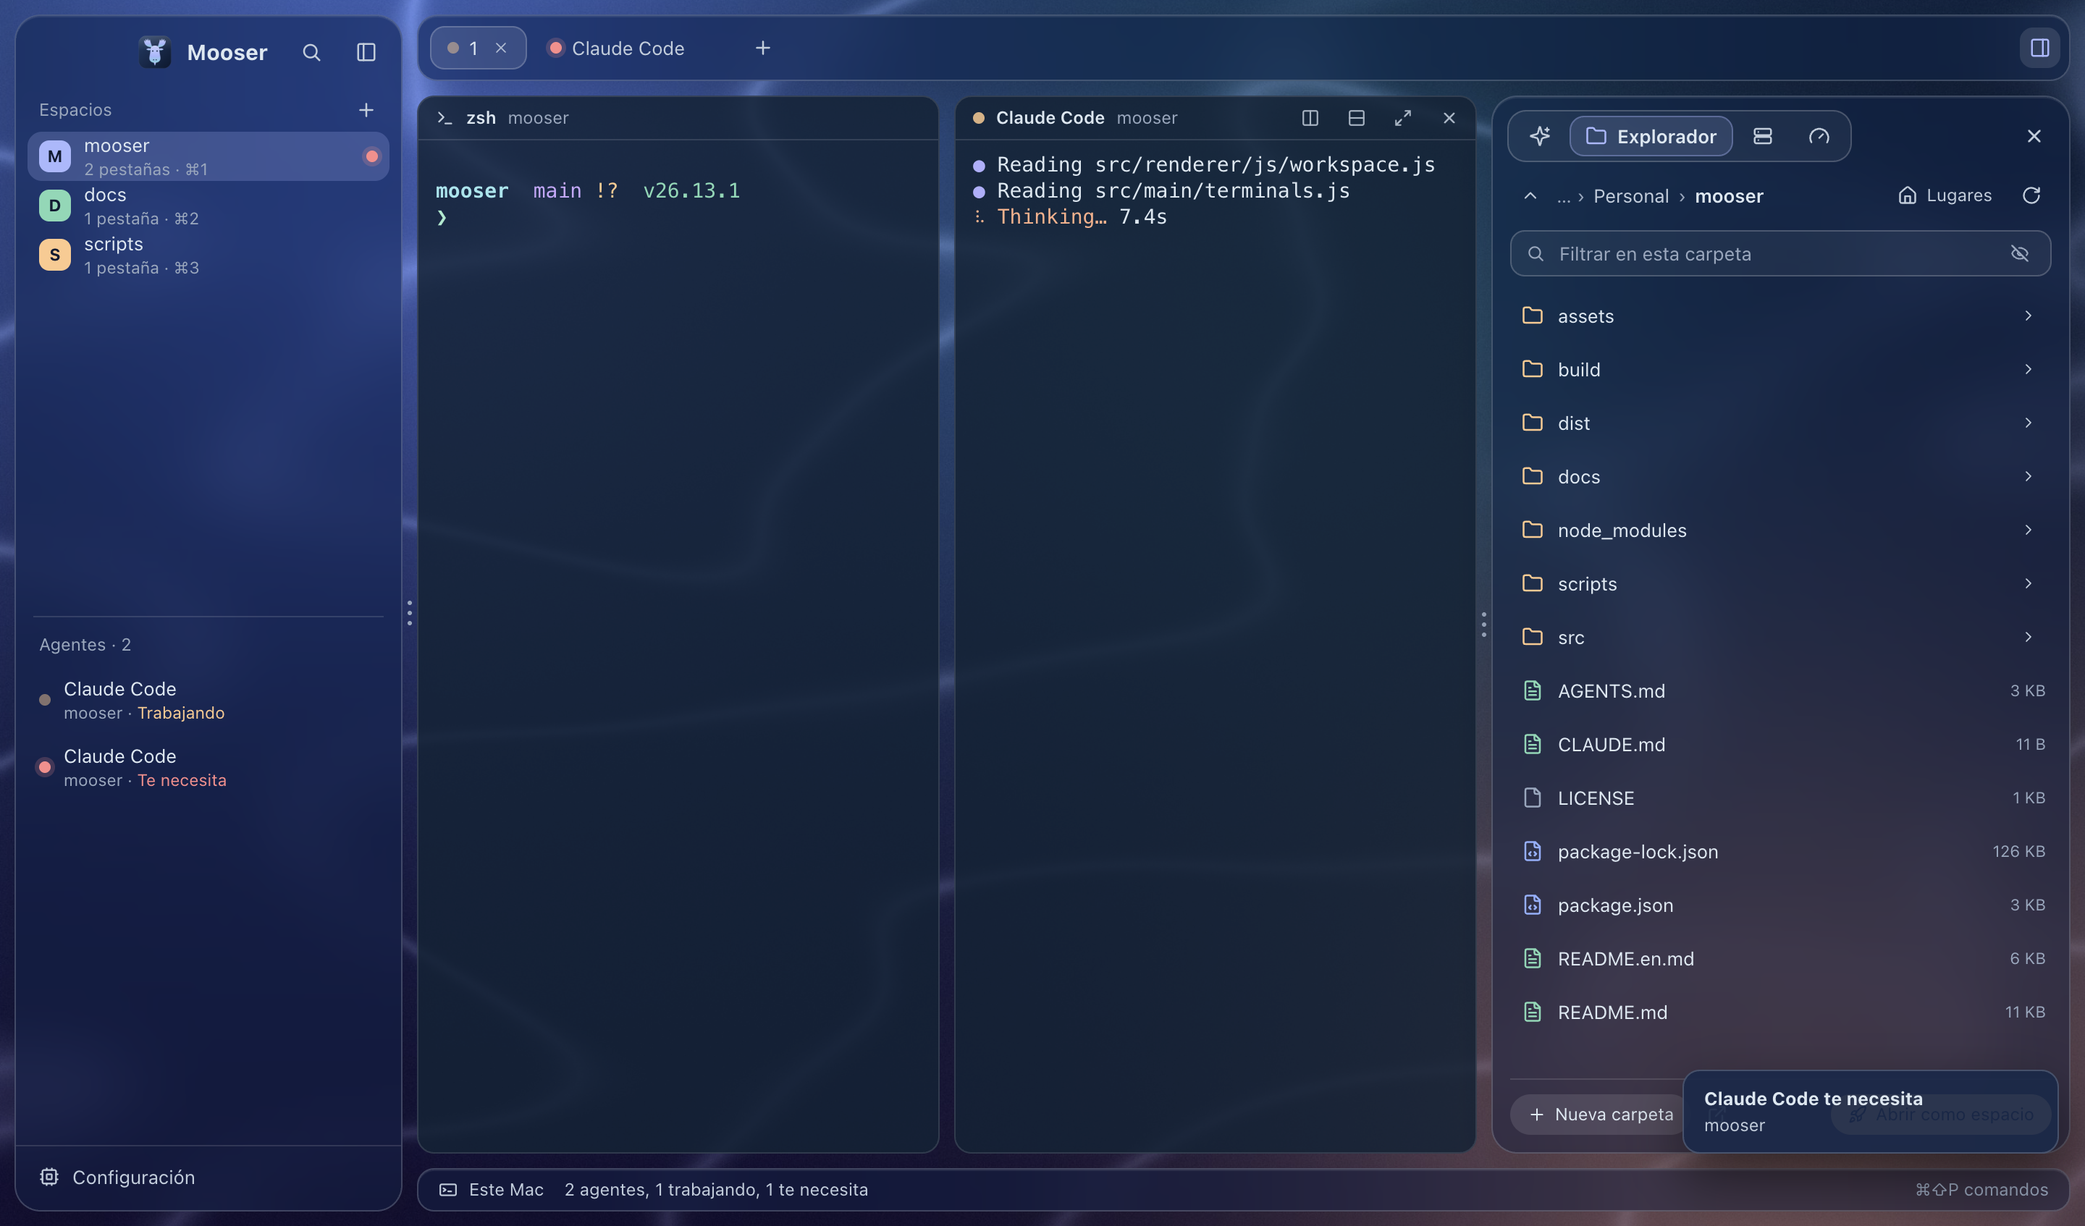
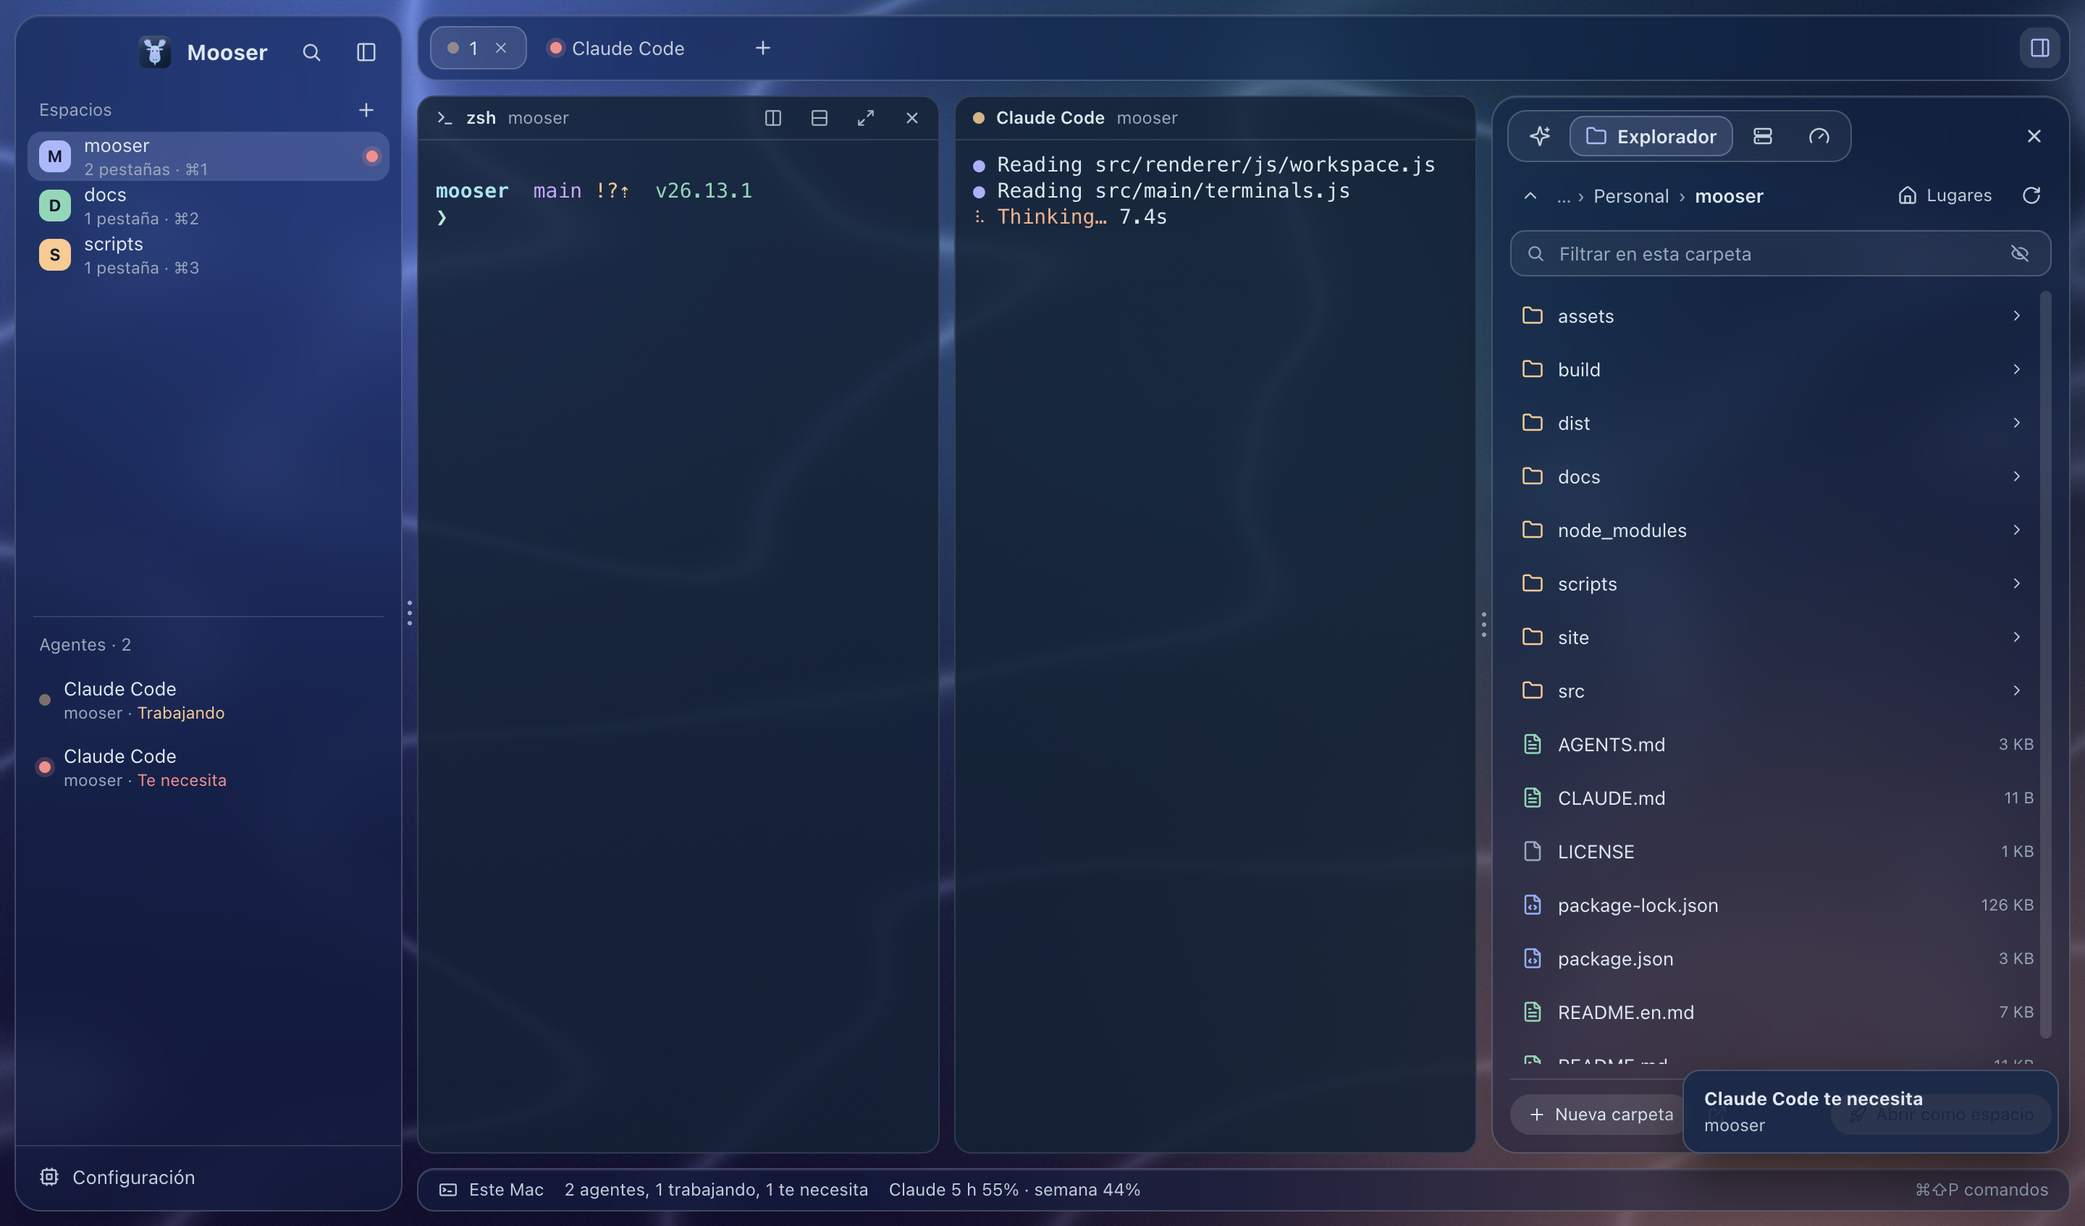
Screenshots with example skills; website: ask your agent
- MOOSER_CLAUDE_DIR points the AI kit at another Claude Code folder; screenshots use one with example skills and agents
- English screenshots of the side panels and Settings, used by the website in English
- Website: Make it yours shows asking a coding agent for a theme, a layout or a new feature, with a GitHub branches panel as the example

diff --git a/site/index.html b/site/index.html
@@ -32,6 +32,7 @@
   <symbol id="i-folder" viewBox="0 0 24 24"><path d="M20 20a2 2 0 0 0 2-2V8a2 2 0 0 0-2-2h-7.9a2 2 0 0 1-1.69-.9L9.6 3.9A2 2 0 0 0 7.93 3H4a2 2 0 0 0-2 2v13a2 2 0 0 0 2 2Z"/></symbol>
   <symbol id="i-server" viewBox="0 0 24 24"><rect x="3" y="4" width="18" height="7" rx="2"/><rect x="3" y="13" width="18" height="7" rx="2"/><path d="M7 7.5h.01M7 16.5h.01"/></symbol>
   <symbol id="i-gauge" viewBox="0 0 24 24"><path d="m12 14 4-4"/><path d="M3.3 19a10 10 0 1 1 17.3 0"/></symbol>
+  <symbol id="i-branch" viewBox="0 0 24 24"><path d="M6 3v12"/><circle cx="18" cy="6" r="3"/><circle cx="6" cy="18" r="3"/><path d="M18 9a9 9 0 0 1-9 9"/></symbol>
   <symbol id="i-terminal" viewBox="0 0 24 24"><path d="m4 17 6-6-6-6M12 19h8"/></symbol>
   <symbol id="i-github" viewBox="0 0 24 24"><path d="M9 19c-4.3 1.4-4.3-2.5-6-3m12 5v-3.5c0-1 .1-1.4-.5-2 2.8-.3 5.5-1.4 5.5-6a4.6 4.6 0 0 0-1.3-3.2 4.2 4.2 0 0 0-.1-3.2s-1.1-.3-3.5 1.3a12.3 12.3 0 0 0-6.2 0C6.5 2.8 5.4 3.1 5.4 3.1a4.2 4.2 0 0 0-.1 3.2A4.6 4.6 0 0 0 4 9.5c0 4.6 2.7 5.7 5.5 6-.6.6-.6 1.2-.5 2V21"/></symbol>
 </svg>
@@ -175,14 +176,14 @@
           <h3><span class="es">Tu Claude Code, ordenado</span><span class="en">Your Claude Code, tidy</span></h3>
           <p><span class="es">Los skills, agentes, servidores MCP, plugins y el modelo por defecto de Claude Code, en un panel. Crea y edita tus skills y agentes, enciende o apaga plugins, añade o quita servidores MCP y cambia de modelo sin tocar archivos de configuración.</span><span class="en">Claude Code's skills, agents, MCP servers, plugins and default model, in one panel. Create and edit your skills and agents, turn plugins on or off, add or remove MCP servers and switch models without touching config files.</span></p>
         </div>
-        <img src="img/kit.jpg" width="820" height="1300" loading="lazy" alt="El Kit de IA con la lista de skills de Claude Code">
+        <img class="es" src="img/kit.jpg" width="820" height="1300" loading="lazy" alt="El Kit de IA con la lista de skills de Claude Code"><img class="en" src="img/kit-en.jpg" width="820" height="1300" loading="lazy" alt="The AI kit with the list of Claude Code skills">
       </div>
       <div class="sheet" data-tab="files" hidden>
         <div class="sheet-text">
           <h3><span class="es">Tus archivos, sin salir</span><span class="en">Your files, without leaving</span></h3>
           <p><span class="es">Navega carpetas, abre archivos con su app, abre una carpeta como espacio, y crea, renombra, mueve, copia o envía a la papelera. El color del icono te dice qué tipo de archivo es.</span><span class="en">Browse folders, open files with their app, open a folder as a space, and create, rename, move, copy or trash. The icon's color tells you what kind of file it is.</span></p>
         </div>
-        <img src="img/explorer.jpg" width="820" height="1300" loading="lazy" alt="El Explorador con las carpetas y archivos de un proyecto">
+        <img class="es" src="img/explorer.jpg" width="820" height="1300" loading="lazy" alt="El Explorador con las carpetas y archivos de un proyecto"><img class="en" src="img/explorer-en.jpg" width="820" height="1300" loading="lazy" alt="The Explorer with a project's folders and files">
       </div>
       <div class="sheet" data-tab="servers" hidden>
         <div class="sheet-text">
@@ -205,7 +206,7 @@
           <h3><span class="es">Que no se acabe el plan a mitad de tarea</span><span class="en">Don't run out of plan mid-task</span></h3>
           <p><span class="es">Cuánto llevas de la sesión de 5 horas y de la semana de tu plan de Claude, con una cuenta atrás hasta que se restablece y un aviso opcional cuando vuelves a tener margen.</span><span class="en">How much of your Claude plan's 5-hour session and week you've used, with a countdown to the reset and an optional alert when you have room again.</span></p>
         </div>
-        <img src="img/usage.jpg" width="820" height="1000" loading="lazy" alt="El panel Uso de IA: la sesión de 5 horas al 24 %, cuenta atrás de 04:13:19 y la semana al 40 %">
+        <img class="es" src="img/usage.jpg" width="820" height="1000" loading="lazy" alt="El panel Uso de IA con la sesión de 5 horas, la cuenta atrás hasta que se restablece y la semana"><img class="en" src="img/usage-en.jpg" width="820" height="1000" loading="lazy" alt="The AI usage panel with the 5-hour session, the countdown to the reset and the week">
       </div>
     </div>
   </section>
@@ -224,17 +225,77 @@
   </section>
 
   <!-- ---------- make it yours ---------- -->
-  <section class="block yours" id="tuyo">
-    <div>
-      <h2><span class="es">Hazlo tuyo</span><span class="en">Make it yours</span></h2>
-      <p class="intro"><span class="es">Tema, acento, fondo, cristal, tamaños, fuente y shell de la terminal, avisos y los agentes del botón +. Todo está en la Configuración, y se guarda en archivos normales que también puedes editar a mano.</span><span class="en">Theme, accent, background, glass, sizes, terminal font and shell, alerts and the agents in the + button. It's all in Settings, saved as plain files you can also edit by hand.</span></p>
+  <section class="block" id="tuyo">
+    <h2><span class="es">Hazlo tuyo</span><span class="en">Make it yours</span></h2>
+    <div class="yours">
+      <div>
+        <p class="intro"><span class="es">Tema, acento, fondo, cristal, tamaños, fuente y shell de la terminal, avisos y los agentes del botón +. Todo está en la Configuración, y se guarda en archivos normales que también puedes editar a mano.</span><span class="en">Theme, accent, background, glass, sizes, terminal font and shell, alerts and the agents in the + button. It's all in Settings, saved as plain files you can also edit by hand.</span></p>
 <pre class="tree"><b>~/.mooser/</b>
 ├─ settings.json  <span class="c"><span class="es">tema, terminal, avisos, agentes</span><span class="en">theme, terminal, alerts, agents</span></span>
 ├─ custom.css     <span class="c"><span class="es">tus propios estilos</span><span class="en">your own styles</span></span>
-├─ backgrounds/   <span class="c"><span class="es">imágenes de fondo</span><span class="en">background images</span></span>
-└─ plugins/       <span class="c"><span class="es">comandos y paneles propios</span><span class="en">your own commands and panels</span></span></pre>
+├─ plugins/       <span class="c"><span class="es">funciones nuevas</span><span class="en">new features</span></span>
+└─ AGENTS.md      <span class="c"><span class="es">la guía para tu agente</span><span class="en">the guide for your agent</span></span></pre>
+      </div>
+      <img class="es" src="img/settings.jpg" width="1400" height="933" loading="lazy" alt="La Configuración con los cinco temas: Cáustica, Medianoche, Aurora, Ámbar y Coral"><img class="en" src="img/settings-en.jpg" width="1400" height="933" loading="lazy" alt="Settings with the five themes: Caustic, Midnight, Aurora, Amber and Coral">
     </div>
-    <img src="img/settings.jpg" width="1400" height="995" loading="lazy" alt="La Configuración con los cinco temas: Cáustica, Medianoche, Aurora, Ámbar y Coral">
+
+    <div class="ask">
+      <div class="ask-text">
+        <h3><span class="es">O pídeselo a tu agente</span><span class="en">Or ask your agent</span></h3>
+        <p><span class="es">Mooser se explica a sí mismo: en <code>~/.mooser</code> deja una guía para agentes de código. Abre Claude Code, o cualquier agente que lea <code>AGENTS.md</code>, y pídele otro tema, otro layout, otro ambiente o una función que no existe. Los cambios se ven al guardar, sin cerrar tus terminales.</span><span class="en">Mooser explains itself: in <code>~/.mooser</code> it keeps a guide for coding agents. Open Claude Code, or any agent that reads <code>AGENTS.md</code>, and ask for another theme, another layout, another mood or a feature that doesn't exist yet. Changes show on save, without closing your terminals.</span></p>
+        <ul class="prompts">
+          <li><span class="es">"Hazlo más cálido, con tonos ámbar y esquinas más redondas"</span><span class="en">"Make it warmer, with amber tones and rounder corners"</span></li>
+          <li><span class="es">"Pon la barra de estado arriba y las pestañas más compactas"</span><span class="en">"Move the status bar to the top and make the tabs more compact"</span></li>
+          <li><span class="es">"Avísame cuando un agente lleve 10 minutos trabajando"</span><span class="en">"Tell me when an agent has been working for 10 minutes"</span></li>
+        </ul>
+      </div>
+
+      <figure class="ask-demo" translate="no">
+        <figcaption><span class="es">Ejemplo: un panel con las ramas de GitHub</span><span class="en">Example: a panel with your GitHub branches</span></figcaption>
+        <div class="ask-term">
+          <div class="m-head"><i class="m-dot" style="--s:var(--done)"></i><b>Claude Code</b> <span>~/code/mooser</span></div>
+<pre class="es"><span class="t-dim">›</span> Añade a Mooser un panel con las ramas de
+  GitHub de este proyecto
+
+<span class="t-b">●</span> Read(~/.mooser/AGENTS.md)
+  ⎿  Read 181 lines
+<span class="t-b">●</span> Write(~/.mooser/plugins/ramas/main.js)
+  ⎿  Wrote 54 lines
+<span class="t-b">●</span> Update(~/.mooser/settings.json)
+  ⎿  "plugins": { "ramas": true }
+
+<span class="t-b">●</span> Listo. El panel Ramas ya está en el panel
+  lateral: cada rama con su último commit, lo
+  que lleva por delante y por detrás de main,
+  y su PR si tiene uno.</pre>
+<pre class="en"><span class="t-dim">›</span> Add a panel to Mooser with this project's
+  GitHub branches
+
+<span class="t-b">●</span> Read(~/.mooser/AGENTS.md)
+  ⎿  Read 181 lines
+<span class="t-b">●</span> Write(~/.mooser/plugins/branches/main.js)
+  ⎿  Wrote 54 lines
+<span class="t-b">●</span> Update(~/.mooser/settings.json)
+  ⎿  "plugins": { "branches": true }
+
+<span class="t-b">●</span> Done. The Branches panel is in the side
+  panel: each branch with its last commit,
+  how far ahead of and behind main it is,
+  and its PR if it has one.</pre>
+        </div>
+        <div class="branches">
+          <div class="b-dock">
+            <svg class="i"><use href="#i-sparkles"/></svg><svg class="i"><use href="#i-folder"/></svg><svg class="i"><use href="#i-server"/></svg><svg class="i"><use href="#i-gauge"/></svg>
+            <span class="b-on"><svg class="i"><use href="#i-branch"/></svg><span class="es">Ramas</span><span class="en">Branches</span></span>
+          </div>
+          <div class="b-title">mooser <small><span class="es">4 ramas</span><span class="en">4 branches</span></small></div>
+          <div class="b-row"><b>main</b><span class="b-ab"></span><small><span class="es">Publica la versión 0.1.0</span><span class="en">Release 0.1.0</span></small><em class="b-time">2 h</em></div>
+          <div class="b-row"><b>feature/pagination</b><span class="b-ab">↑3 ↓0</span><small><span class="es">Paginación en /users</span><span class="en">Pagination for /users</span></small><em class="b-pr open">PR #12</em></div>
+          <div class="b-row"><b>fix/login-redirect</b><span class="b-ab">↑1 ↓2</span><small><span class="es">Vuelve a la página de origen</span><span class="en">Return to the original page</span></small><em class="b-pr review"><span class="es">en revisión</span><span class="en">in review</span></em></div>
+          <div class="b-row"><b>docs/readme</b><span class="b-ab">↑0 ↓5</span><small><span class="es">Capturas de macOS</span><span class="en">macOS screenshots</span></small><em class="b-time"><span class="es">sin PR</span><span class="en">no PR</span></em></div>
+        </div>
+      </figure>
+    </div>
   </section>
 
   <!-- ---------- keys ---------- -->

diff --git a/site/style.css b/site/style.css
@@ -223,11 +223,42 @@ h3 { font-weight: 600; font-size: 19px; }
 .day li.working b, .day li.blocked b, .day li.done b { color: var(--s); }
 
 /* Make it yours. */
-.yours { display: grid; grid-template-columns: minmax(0, .9fr) minmax(0, 1.1fr); gap: 56px; align-items: center; }
+.yours { display: grid; grid-template-columns: minmax(0, .9fr) minmax(0, 1.1fr); gap: 56px; align-items: center; margin-top: 8px; }
 .tree { margin: 30px 0 0; padding: 22px 24px; border-radius: 16px; background: rgba(4, 10, 20, .45); border: 1px solid var(--line); font: 14px/1.85 var(--mono); color: #d5e1ec; overflow-x: auto; }
 .tree b { font-weight: 500; color: var(--accent); }
 .tree .c { color: var(--dim); }
 .yours img { border-radius: 16px; border: 1px solid var(--line-2); box-shadow: 0 30px 80px rgba(2, 8, 20, .55); }
+
+/* Asking your agent: what you say, what it does, what you get. */
+.ask { display: grid; grid-template-columns: minmax(0, .85fr) minmax(0, 1.15fr); gap: 56px; align-items: center; margin-top: 90px; padding-top: 70px; border-top: 1px solid var(--line); }
+.ask-text h3 { font: 400 clamp(28px, 3vw, 40px)/1.1 var(--display); font-variation-settings: "SOFT" 100, "opsz" 96; }
+.ask-text p { margin-top: 18px; color: var(--muted); }
+.ask-text code { font: .86em var(--mono); padding: 2px 6px; border-radius: 6px; background: var(--glass-2); border: 1px solid var(--line); color: var(--fg); }
+.prompts { list-style: none; margin: 26px 0 0; padding: 0; display: grid; gap: 10px; }
+.prompts li { padding: 11px 16px; border-radius: 12px 12px 12px 4px; background: var(--glass-2); border: 1px solid var(--line); color: var(--fg); font-size: 15px; width: fit-content; max-width: 100%; }
+.ask-demo { position: relative; margin: 0; padding-bottom: 190px; }
+.ask-demo figcaption { font-size: 14px; color: var(--dim); margin-bottom: 14px; }
+.ask-term { width: 82%; border-radius: 16px; overflow: hidden; background: rgba(15, 34, 54, .85); border: 1px solid var(--line-2); box-shadow: 0 30px 80px rgba(2, 8, 20, .5); font-size: 13px; }
+.ask-term pre { margin: 0; padding: 14px 16px 18px; font: 12.5px/1.6 var(--mono); color: #d5e1ec; white-space: pre; overflow-x: auto; }
+.ask-term .m-head { color: #dce8f2; }
+.branches {
+  position: absolute; right: 0; bottom: 0; width: 58%; padding: 12px; border-radius: 16px;
+  background: rgba(14, 31, 58, .9); border: 1px solid var(--line-2); box-shadow: 0 30px 80px rgba(2, 8, 20, .65), 0 0 60px rgba(169, 184, 255, .12);
+  backdrop-filter: blur(18px); -webkit-backdrop-filter: blur(18px); font-size: 13px;
+}
+.b-dock { display: flex; align-items: center; gap: 12px; padding: 5px 6px; border-radius: 11px; border: 1px solid var(--line); color: var(--muted); }
+.b-dock .i { width: 15px; height: 15px; }
+.b-on { display: flex; align-items: center; gap: 6px; padding: 4px 9px; border-radius: 8px; background: color-mix(in srgb, var(--accent) 22%, transparent); color: var(--fg); font-weight: 500; }
+.b-title { display: flex; align-items: baseline; gap: 8px; padding: 12px 6px 6px; font-weight: 600; }
+.b-title small { font-weight: 400; color: var(--dim); }
+.b-row { display: grid; grid-template-columns: 1fr auto; gap: 1px 10px; padding: 8px 8px; border-radius: 9px; }
+.b-row:first-of-type { background: rgba(255, 255, 255, .05); }
+.b-row b { font: 500 12.5px var(--mono); }
+.b-ab { font: 12px var(--mono); color: var(--dim); text-align: right; }
+.b-row small { color: var(--dim); font-size: 12px; overflow: hidden; text-overflow: ellipsis; white-space: nowrap; }
+.b-row em { font-style: normal; font-size: 11.5px; text-align: right; color: var(--dim); }
+.b-pr.open { color: var(--done); }
+.b-pr.review { color: var(--working); }
 
 /* Keys. */
 .keys { display: grid; grid-template-columns: repeat(3, 1fr); gap: 12px; margin-top: 44px; }
@@ -291,7 +322,7 @@ details > p, details > ol, details > div, details > p + p { color: var(--muted);
   .m-panes { grid-template-columns: 1fr; }
   .m-pane:nth-child(2) { display: none; }
   .trio, .promises { grid-template-columns: 1fr; }
-  .sheet, .yours { grid-template-columns: 1fr; gap: 32px; }
+  .sheet, .yours, .ask { grid-template-columns: 1fr; gap: 32px; }
   .sheet img, .servers { max-height: 420px; justify-self: start; }
   .keys { grid-template-columns: 1fr 1fr; }
 }
@@ -309,6 +340,9 @@ details > p, details > ol, details > div, details > p + p { color: var(--muted);
   .sheet { padding: 28px 12px 16px; }
   .dock { display: flex; width: 100%; justify-content: space-between; }
   .keys, .files { grid-template-columns: 1fr; }
+  .ask-term { width: 100%; }
+  .ask-demo { padding-bottom: 0; }
+  .branches { position: relative; width: 100%; margin-top: 14px; }
   .day::before { left: 63px; }
   .day li { grid-template-columns: 48px 1fr; gap: 34px; }
   .day li::before { left: 59px; }

diff --git a/src/main/kit.js b/src/main/kit.js
@@ -14,7 +14,8 @@ const os = require("node:os");
 const { execFile } = require("node:child_process");
 
 const HOME = os.homedir();
-const C = path.join(HOME, ".claude");
+// MOOSER_CLAUDE_DIR: another Claude Code folder, for screenshots with example skills and agents.
+const C = process.env.MOOSER_CLAUDE_DIR || path.join(HOME, ".claude");
 const SETTINGS = path.join(C, "settings.json");
 const DIRS = {
   skill: [path.join(C, "skills"), path.join(C, "skills-off")],
@@ -113,7 +114,7 @@ function run(args, timeout = 120000) {
 // `claude mcp list` lines: "<name>: <command or url> - <status>". The user's own servers come
 // from ~/.claude.json; claude.ai connectors and plugin servers are named by their prefix.
 async function mcp() {
-  const user = readJSON(path.join(HOME, ".claude.json"), {}).mcpServers ?? {};
+  const user = readJSON(process.env.MOOSER_CLAUDE_DIR ? path.join(C, ".claude.json") : path.join(HOME, ".claude.json"), {}).mcpServers ?? {};
   const r = await run(["mcp", "list"], 90000);
   const servers = [];
   for (const line of r.stdout.split(/\r?\n/)) {

diff --git a/AGENTS.md b/AGENTS.md
@@ -47,5 +47,6 @@ hands back the terminal's recent output when the page asks for it again.
 - UI text is written in Spanish (sentence case) and translated to English by `i18n.js`.
 - Check a change by running the app. `MOOSER_SHOT=<file.png> MOOSER_QUIT=1 npx electron .` saves a
   picture of the window after 5 s (`MOOSER_WAIT` ms) and prints the page's console;
-  `MOOSER_JS="..."` runs code in the page first (at `MOOSER_JS_AT` ms). Close other Mooser windows
+  `MOOSER_JS="..."` runs code in the page first (at `MOOSER_JS_AT` ms); `MOOSER_CLAUDE_DIR` points the AI kit at
+  another Claude Code folder. Close other Mooser windows
   first: they hold the data folder.
